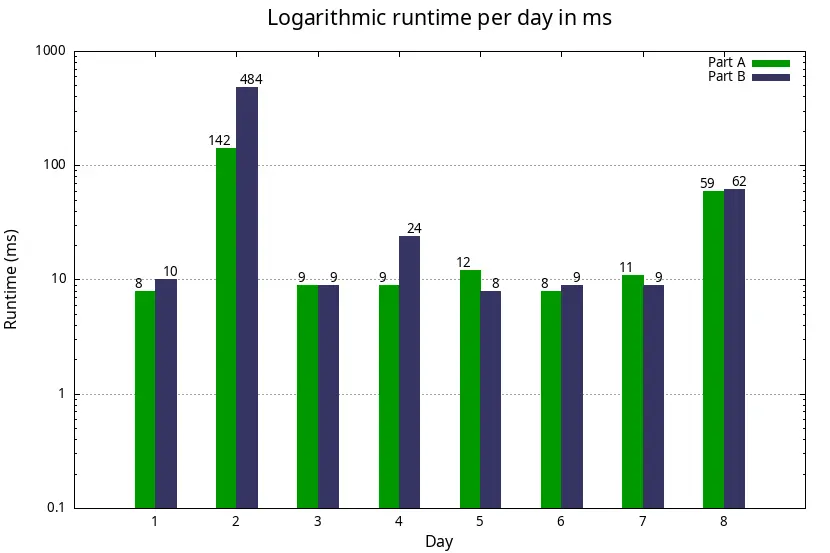
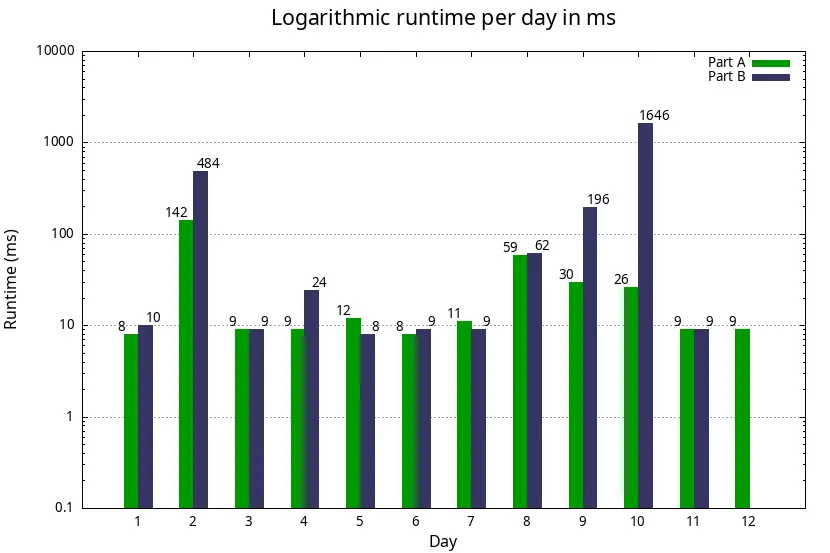
update plots

diff --git a/README.md b/README.md
@@ -4,7 +4,7 @@ https://adventofcode.com/2025 by [Eric Wastl](http://was.tl/)
 
 Solutions using TypeScript with Bun (v1.3.2)
 
-💫💫💫💫💫💫💫💫🌑💫💫💫
+💫💫💫💫💫💫💫💫💫💫💫💫
 
 ## 1. Requirements
 
@@ -30,4 +30,4 @@ Run part A or B
 
 ## 3. Solution runtimes
 
-![runtimes](./gnuplot/assets/runtimes.webp)
+![runtimes](./gnuplot/assets/runtimes-log.webp)
